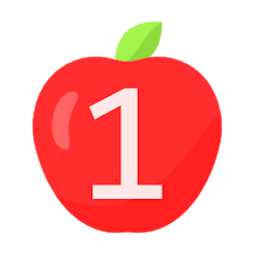
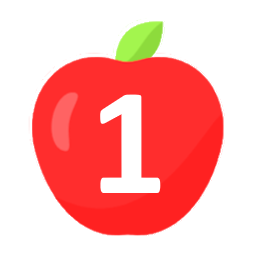
Updated countdown logic to be host/client based, added new fruit imgs and fruit board resetting logic

diff --git a/coopfruitbox/wwwroot/src/renderer.ts b/coopfruitbox/wwwroot/src/renderer.ts
@@ -2,12 +2,8 @@ abstract class Renderer {
     public static drawGame() {
         selectionArea = new MouseSelectionArea(0, 0, 0, 0, true);
         otherSelectionArea = new MouseSelectionArea(0, 0, 0, 0, true);
-        gameCanvasContext.beginPath();
-        gameCanvasContext.arc(50, 50, 15, 0, Math.PI * 2, false)
-        gameCanvasContext.fillStyle = 'red'
-        gameCanvasContext.fill()
-        Renderer.drawFruits(num_rows, num_cols);
-        resetGameButton.style.display = "inline";
+        uiContainer.style.display = "inline";
+        Renderer.displayFruit();
     }
 
     public static displayMainMenu() {
@@ -17,7 +13,6 @@ abstract class Renderer {
 
     public static hideOverlay() {
         overlay.style.display = "none";
-        resetGameButton.style.display = "none";
     }
 
     public static displayCoopStart() {
@@ -31,6 +26,12 @@ abstract class Renderer {
         // Game starting in 3, 2, 1 ...
         overlayText.style.display = "inline";
         overlayText.innerText = `Starting in ${time}...`
+    }
+
+    public static displayFruit() {
+        for (let f of fruits) {
+            f.draw();
+        }
     }
 
     public static displayGameOver() {
@@ -49,23 +50,7 @@ abstract class Renderer {
         timerText.innerText = `${time}`;
     }
 
-    /* Draws rows * cols number of fruits in gameCanvas. Max 170. */
-    public static drawFruits(rows: number, cols: number) {
-        let xOffset = 0;
-        let yOffset = 0;
-        let c = 0;
-        for (let i = 0; i < rows; i++) {
-            for (let j = 0; j < cols; j++) {
-                let rand = 1;
-                let fruit = new Fruit(rand, xOffset + 50 * j, yOffset + 50 * i, c);
-                fruit.draw();
-                fruits.push(fruit);
-                c += 1;
-            }
-        }
-    }
-
-    public static trackMouseSelecting() {
+    public static trackMouse() {
         onmousedown = function (e) { Helpers.sendCursor(e, MouseEventType.Down); }
         onmousemove = function (e) { Helpers.sendCursor(e, MouseEventType.Move); }
         onmouseup = function (e) { Helpers.sendCursor(e, MouseEventType.Up); }

diff --git a/coopfruitbox/wwwroot/src/game.ts b/coopfruitbox/wwwroot/src/game.ts
@@ -60,10 +60,34 @@ abstract class Game {
         if (playerIsHost) {
             Host.startGameTimer()
         }
+        Game.createFruits(seed);
+        Renderer.drawGame();
         Renderer.updateScore();
         Renderer.hideOverlay();
-        Renderer.drawGame();
-        Renderer.trackMouseSelecting();
+        Renderer.trackMouse();
+    }
+
+    // Creates and returns random values for the fruits.
+    public static createBoardSeed() {
+        let fruitVals = [];
+        for (let i = 0; i < num_rows * num_cols; i++) {
+            fruitVals[i] = Math.floor(Math.random() * 8) + 1;
+        }
+        return fruitVals;
+    }
+
+    // Initializes fruit objects from seed and stores list in global variable.
+    public static createFruits(seed: number[]) {
+        let xOffset = 0;
+        let yOffset = 0;
+        let c = 0;
+        for (let i = 0; i < num_rows; i++) {
+            for (let j = 0; j < num_cols; j++) {
+                let fruit = new Fruit(seed[c], xOffset + 50 * j, yOffset + 50 * i, c);
+                fruits.push(fruit);
+                c += 1;
+            }
+        }
     }
 
     public static gameOver() {
@@ -100,17 +124,17 @@ playAgainButton.addEventListener("click", (): void => {
     // TODO: setup endGame menu that shows score, time left, play again button
     // only 1 player is required to activate playAgain button
     if (playerIsHost) {
-        Host.playAgain();
+        Host.resetGame();
     } else {
-        Client.playAgain();
+        Client.resetGame();
     }
 }); 
 
 resetGameButton.addEventListener("click", (): void => {
     // TODO: make it so that both players need to click reset in order for game to reset
     if (playerIsHost) {
-        Host.playAgain();
+        Host.resetGame();
     } else {
-        Client.playAgain();
+        Client.resetGame();
     }
 })

diff --git a/coopfruitbox/wwwroot/src/types.ts b/coopfruitbox/wwwroot/src/types.ts
@@ -50,8 +50,7 @@ class Fruit {
         this.y = y;
         this.id = id;
         this.cleared = false;
-        /* Assign images based on value here */
-        this.defaultImage = a1;
+        this.defaultImage = apple_images[value - 1];
     }
 
     public draw() {
@@ -102,29 +101,30 @@ class ClientDataObject {
                 this.fruitIDs = arg;
         }
     }
-
-
 }
 
 class HostDataObject {
+    public fruitSeed: number[];
     public fruitIDs!: number[];
     public score!: number;
     public time!: number;
     public hostObjectType: HostObjectType;
     constructor(hostObjectType: HostObjectType.StartGame);
+    constructor(hostObjectType: HostObjectType.ResetGame, fruitSeed: number[]);
     constructor(hostObjectType: HostObjectType.Fruit, fruitIDs: number[]);
     constructor(hostObjectType: HostObjectType.GameState, time: number, score: number);
-    constructor(hostObjectType: HostObjectType.ResetGame);
     constructor(hostObjectType: HostObjectType.GameOver); // TODO: add high score to GameOver constructor
     constructor(hostObjectType: HostObjectType, arg1?: number[] | number, arg2?: number) {
         this.hostObjectType = hostObjectType;
         switch (hostObjectType) {
+            case HostObjectType.ResetGame:
+                this.fruitSeed = <number[]> arg1;
             case HostObjectType.Fruit:
                 this.fruitIDs = <number[]> arg1;
                 break;
             case HostObjectType.GameState:
-                this.score = <number>arg1;
-                this.time = <number>arg2;
+                this.score = <number> arg1;
+                this.time = <number> arg2;
                 break;
         }
     }

diff --git a/coopfruitbox/wwwroot/src/client.ts b/coopfruitbox/wwwroot/src/client.ts
@@ -7,15 +7,17 @@ abstract class Client {
                 case HostObjectType.StartGame:
                     Helpers.startCountdown();
                     break;
+                case HostObjectType.ResetGame:
+                    console.log(hostDataObject.fruitSeed);
+                    seed = hostDataObject.fruitSeed;
+                    Game.resetGame();
+                    break;
                 case HostObjectType.Fruit:
                     // given host's fruits to clear, clear them and update score
                     Client.clearFruit(Helpers.getFruitFromIDs(hostDataObject.fruitIDs));
                     break;
                 case HostObjectType.GameState:
                     Client.updateGameState(hostDataObject.score, hostDataObject.time);
-                    break;
-                case HostObjectType.ResetGame:
-                    Game.resetGame();
                     break;
             }
         });
@@ -26,6 +28,15 @@ abstract class Client {
         connection.invoke("SendClientData", lobbyID, JSON.stringify(data));
     }
 
+    public static countdownTick() {
+        Renderer.displayCountdown();
+        if (time <= 0) {
+            Helpers.resetTimer();
+        } else {
+            time -= 1;
+        }
+    }
+
     public static updateGameState(s: number, t: number) {
         score = s;
         time = t;
@@ -33,7 +44,7 @@ abstract class Client {
         Renderer.updateTimer();
     }
 
-    public static playAgain() {
+    public static resetGame() {
         let data = new ClientDataObject(ClientObjectType.ResetGame);
         connection.invoke("SendClientData", lobbyID, JSON.stringify(data));
     }

diff --git a/coopfruitbox/wwwroot/src/host.ts b/coopfruitbox/wwwroot/src/host.ts
@@ -8,12 +8,12 @@ abstract class Host {
                 case ClientObjectType.StartGame:
                     Host.startCountdown()
                     break;
+                case ClientObjectType.ResetGame:
+                    Host.resetGame();
+                    break;
                 case ClientObjectType.Fruit:
                     // given client's fruits, clear them and send back to client to clear them
                     Host.clearFruit(Helpers.getFruitFromIDs(clientDataObject.fruitIDs));
-                    break;
-                case ClientObjectType.ResetGame:
-                    Host.playAgain();
                     break;
             }
         });
@@ -21,12 +21,23 @@ abstract class Host {
 
     public static startCountdown() {
         let data = new HostDataObject(HostObjectType.StartGame);
-        connection.invoke("SendHostData", lobbyID, JSON.stringify(data))
+        connection.invoke("SendHostData", lobbyID, JSON.stringify(data));
         Helpers.startCountdown();
     }
 
-    public static playAgain() {
-        let data = new HostDataObject(HostObjectType.ResetGame);
+    public static countdownTick() {
+        Renderer.displayCountdown();
+        if (time <= 0) {
+            Helpers.resetTimer();
+            Host.resetGame();
+        } else {
+            time -= 1;
+        }
+    }
+
+    public static async resetGame() {
+        seed = Game.createBoardSeed();
+        let data = new HostDataObject(HostObjectType.ResetGame, seed);
         connection.invoke("SendHostData", lobbyID, JSON.stringify(data))
         Game.resetGame();
     }

diff --git a/coopfruitbox/wwwroot/src/globals.ts b/coopfruitbox/wwwroot/src/globals.ts
@@ -8,6 +8,7 @@ let playerIsHost: boolean = false;
 let highScore: number;
 
 let overlay: HTMLElement = document.getElementById("overlay") as HTMLElement;
+let uiContainer: HTMLElement = document.getElementById("ui-container") as HTMLElement;
 let startSoloButton: HTMLButtonElement = document.getElementById("play-solo-button") as HTMLButtonElement;
 let createLobbyButton: HTMLButtonElement = document.getElementById("create-lobby-button") as HTMLButtonElement;
 let startCoopButton: HTMLButtonElement = document.getElementById("start-coop-button") as HTMLButtonElement;
@@ -46,6 +47,20 @@ let a2: HTMLImageElement = new Image();
 a2.src = "images/a2.png";
 let a3: HTMLImageElement = new Image();
 a3.src = "images/a3.png";
+let a4: HTMLImageElement = new Image();
+a4.src = "images/a4.png";
+let a5: HTMLImageElement = new Image();
+a5.src = "images/a5.png";
+let a6: HTMLImageElement = new Image();
+a6.src = "images/a6.png";
+let a7: HTMLImageElement = new Image();
+a7.src = "images/a7.png";
+let a8: HTMLImageElement = new Image();
+a8.src = "images/a8.png";
+let a9: HTMLImageElement = new Image();
+a9.src = "images/a9.png";
+let apple_images = [a1, a2, a3, a4, a5, a6, a7, a8, a9];
+
 let highlight: HTMLImageElement = new Image();
 highlight.src = "images/highlight.png";
 let scoreable: HTMLImageElement = new Image();
@@ -55,6 +70,7 @@ let num_rows = 10;
 let num_cols = 17;
 let fruit_radius: number = 48;
 let goal: number = 10;
+let seed: number[] = [];
 let fruits: Fruit[] = [];
 let selected: Set<Fruit> = new Set();
 let selectedByOther: Set<Fruit> = new Set();

diff --git a/coopfruitbox/wwwroot/src/helpers.ts b/coopfruitbox/wwwroot/src/helpers.ts
@@ -114,17 +114,8 @@ abstract class Helpers {
         createLobbyButton.style.display = "none";
         time = 3;
         Helpers.resetTimer();
-        Helpers.countdownTick();
-        timerInterval = setInterval(Helpers.countdownTick, 1000);
-    }
-
-    public static countdownTick() {
-        Renderer.displayCountdown();
-        if (time <= 0) {
-            Helpers.resetTimer();
-            Game.resetGame();
-        } else {
-            time -= 1;
-        }
+        let countdownTick = (playerIsHost) ? Host.countdownTick : Client.countdownTick;
+        countdownTick();
+        timerInterval = setInterval(countdownTick, 1000);
     }
 }

diff --git a/coopfruitbox/wwwroot/index.html b/coopfruitbox/wwwroot/index.html
@@ -14,10 +14,10 @@
             <div hidden id="other-selection-div"></div>
             <canvas id="game-canvas"></canvas>
         </div>
-        <div id="ui-container">
+        <div id="ui-container" style="display: none;">
             <div id="score-text"></div>
             <div id="timer-text"></div>
-            <button id="reset-game-button" style="display: none;" class="button">Reset</button>
+            <button id="reset-game-button" class="button">Reset</button>
         </div>
 
         <div id="overlay">
